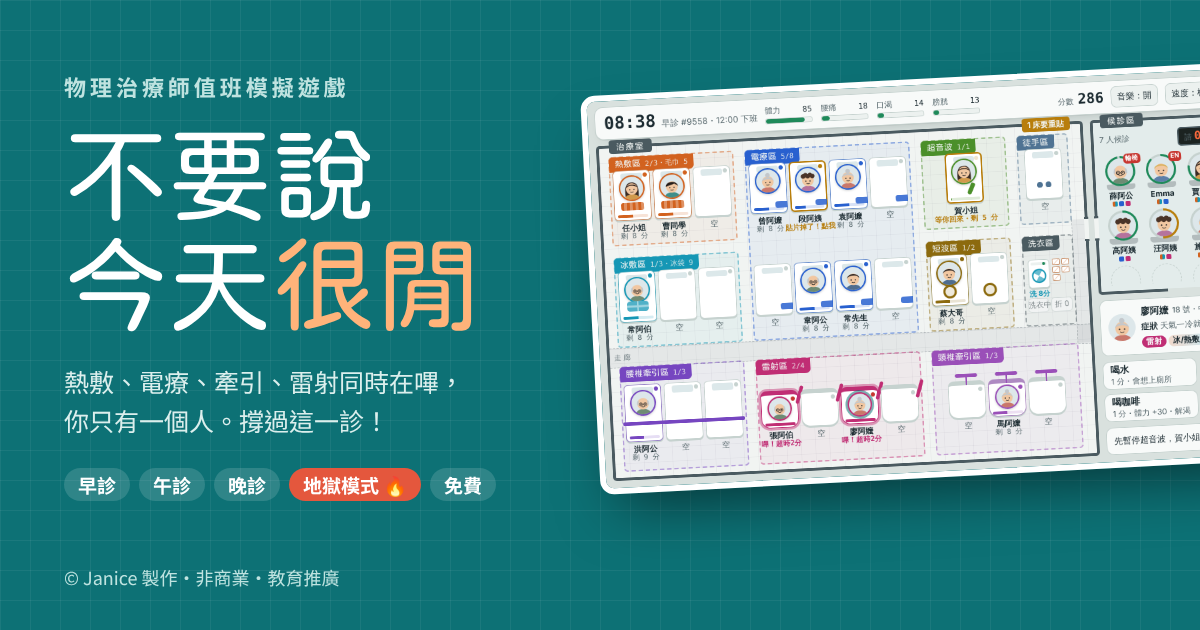
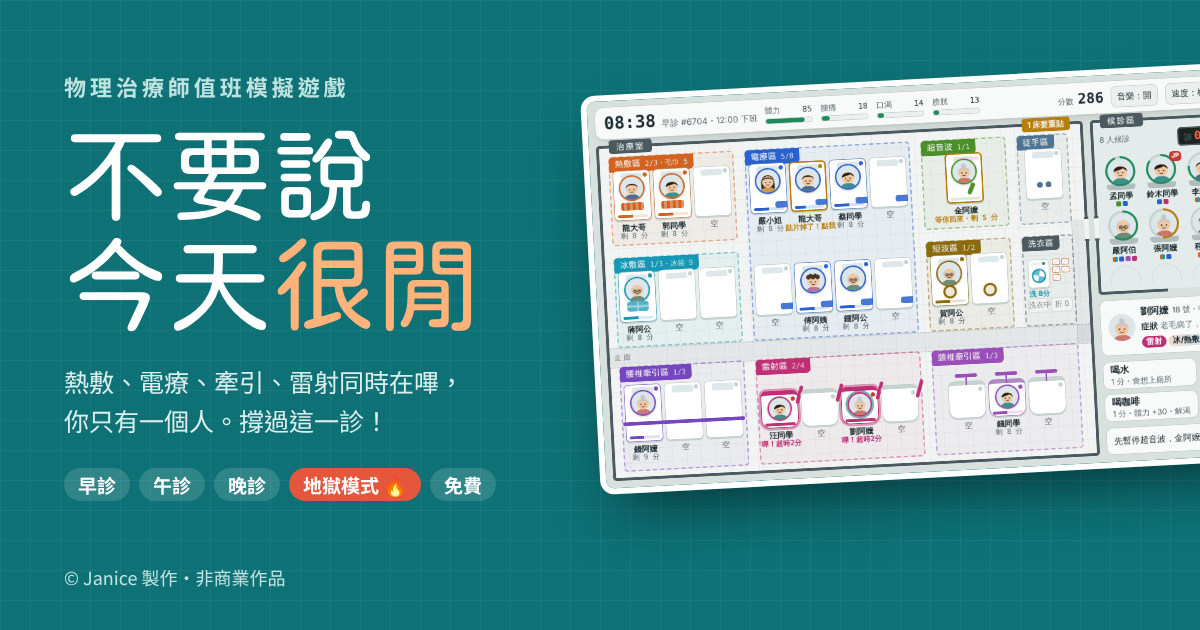
Remove 教育推廣 wording
Claude-Session: https://claude.ai/code/session_01JSNuRmHTevhUmf8pc6ft92

diff --git a/index.html b/index.html
@@ -470,7 +470,7 @@ button:focus-visible{outline:2px solid var(--brand);outline-offset:2px}
         <h1 class="title">不要說<br>今天<span class="pine">很閒</span></h1>
         <p class="lede">27 台機器同時在嗶，每個病人的處方都不一樣，而你只有一個人。撐過這一診，準時下班。</p>
         <div class="legend" id="legend"></div>
-        <p class="foot">非商業作品，僅供教育推廣與交流分享，請勿用於任何商業用途。<br>遊戲中的情境、治療參數與處置皆為練習用的簡化設定，實際臨床請依醫囑及所屬院所規範執行。<br>© Janice 製作・採用 <a href="https://creativecommons.org/licenses/by-nc/4.0/deed.zh-hant" target="_blank" rel="noopener">CC BY-NC 4.0</a> 授權・靈感來自護理師值班遊戲〈<a href="https://busy-nurse.vercel.app/" target="_blank" rel="noopener">上班不要吃鳳梨</a>〉</p>
+        <p class="foot">非商業作品，僅供交流分享，請勿用於任何商業用途。<br>遊戲中的情境、治療參數與處置皆為練習用的簡化設定，實際臨床請依醫囑及所屬院所規範執行。<br>© Janice 製作・採用 <a href="https://creativecommons.org/licenses/by-nc/4.0/deed.zh-hant" target="_blank" rel="noopener">CC BY-NC 4.0</a> 授權・靈感來自護理師值班遊戲〈<a href="https://busy-nurse.vercel.app/" target="_blank" rel="noopener">上班不要吃鳳梨</a>〉</p>
       </div>
       <div class="col">
         <div class="codebox">

diff --git a/README.md b/README.md
@@ -29,7 +29,7 @@
 
 單一 HTML 檔，直接用瀏覽器打開 `index.html` 就能玩。病人、處方、床位數量和事件都放在程式最上方的設定區，可以直接修改。
 
-> 非商業作品，僅供教育推廣與交流分享，請勿用於任何商業用途。
+> 非商業作品，僅供交流分享，請勿用於任何商業用途。
 > 遊戲中的情境、治療參數與處置皆為練習用的簡化設定，實際臨床請依醫囑及所屬院所規範執行。
 
 ## 授權
